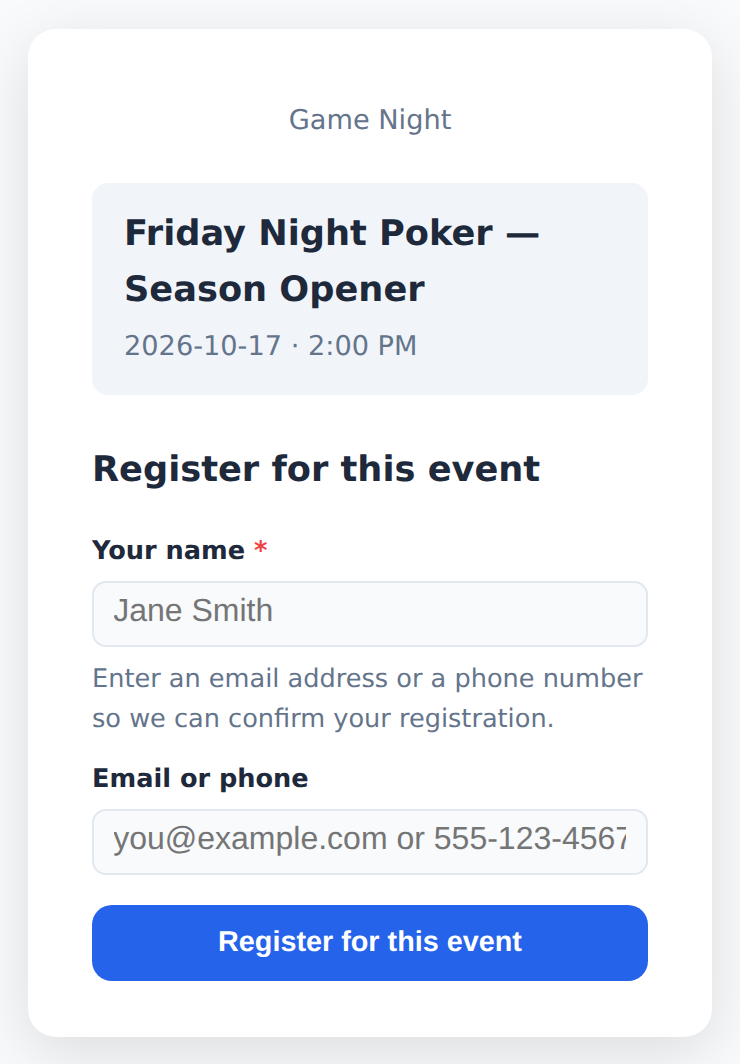
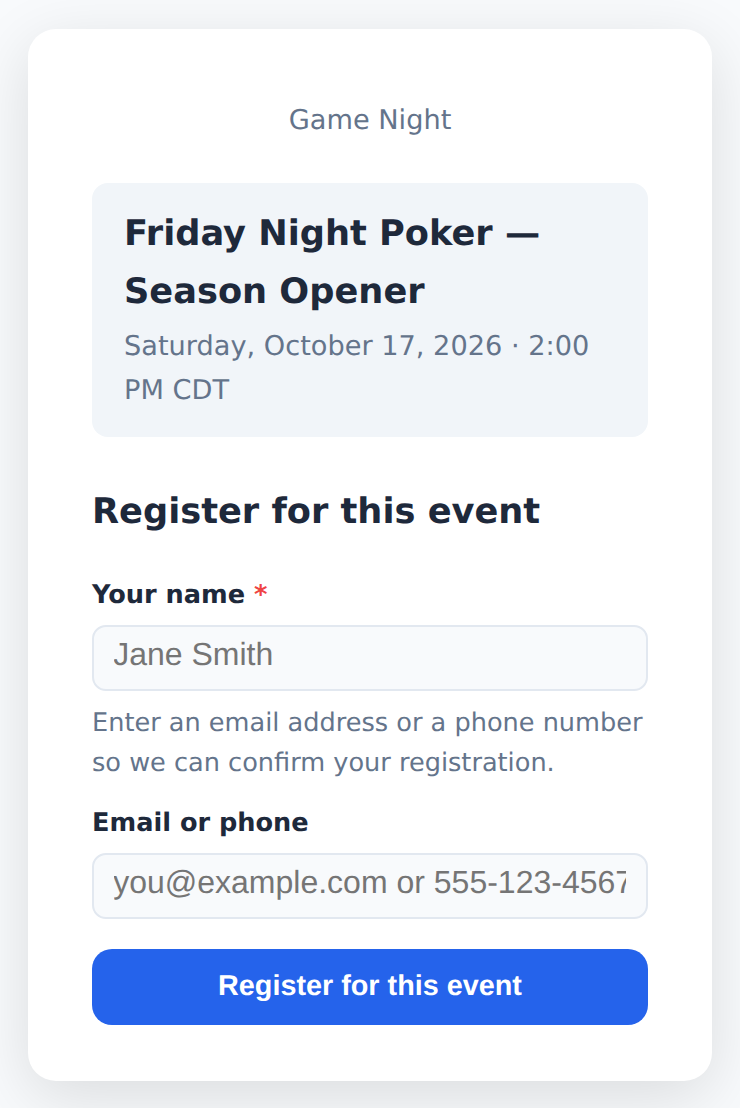
The walk-in page shows the date the way the RSVP page does (v1.4.5)
walkin.php printed the stored date (2026-10-17 · 2:00 PM) at the top of
the form, with no day of the week and no timezone, while rsvp.php says
"Saturday, October 17, 2026 · 2:00 PM CDT" for the same event. It now
uses the same label helper (event_public_time_labels) in the same zone: a
signed-in viewer's own, otherwise the event creator's. The waiting-list
message carried the raw date too and reads the same way now. The Guest
Guide's walk-in picture is retaken with the new format.

diff --git a/www/walkin.php b/www/walkin.php
@@ -17,7 +17,7 @@ $site_name  = get_setting('site_name', 'Game Night');
 // ── Validate event + token ────────────────────────────────────────────────────
 $event = null;
 if ($event_id > 0 && $token !== '') {
-    $stmt = $db->prepare('SELECT id, title, start_date, start_time, end_time, walkin_token, visibility FROM events WHERE id = ?');
+    $stmt = $db->prepare('SELECT id, title, start_date, start_time, end_time, walkin_token, visibility, created_by FROM events WHERE id = ?');
     $stmt->execute([$event_id]);
     $row = $stmt->fetch();
     if ($row && hash_equals((string)$row['walkin_token'], $token)) {
@@ -44,16 +44,17 @@ function walkin_record_attempt(PDO $db): void {
 }
 
 // ── Format display date/time ──────────────────────────────────────────────────
+// The same labels the RSVP page shows ("Saturday, October 17, 2026 · 2:00 PM
+// CDT"), in the same zone: a signed-in viewer's own, otherwise the event
+// creator's, since a walk-in is usually standing at the venue with no account.
+// It used to print the raw stored date (2026-10-17). Entities are decoded
+// because every call site escapes the result.
 function fmt_event_display(array $ev): string {
-    $out = $ev['start_date'];
-    if (!empty($ev['start_time'])) {
-        $t = DateTime::createFromFormat('H:i', $ev['start_time']);
-        if ($t) $out .= '  ·  ' . $t->format('g:i A');
-        if (!empty($ev['end_time'])) {
-            $t2 = DateTime::createFromFormat('H:i', $ev['end_time']);
-            if ($t2) $out .= ' – ' . $t2->format('g:i A');
-        }
-    }
+    $cu  = function_exists('current_user') ? current_user() : null;
+    $uid = !empty($cu['id']) ? (int)$cu['id'] : ((int)($ev['created_by'] ?? 0) ?: null);
+    $lbl = event_public_time_labels((string)$ev['start_date'], $ev['start_time'] ?: null, $ev['end_time'] ?: null, $uid);
+    $out = $lbl['date_lbl'];
+    if ($lbl['time_lbl'] !== '') $out .= '  ·  ' . html_entity_decode($lbl['time_lbl'], ENT_QUOTES | ENT_HTML5, 'UTF-8');
     return $out;
 }
 
@@ -204,8 +205,8 @@ if (!$invalid && $_SERVER['REQUEST_METHOD'] === 'POST') {
                     $uNotify->execute([$uid]);
                     $uRow = $uNotify->fetch();
                     if ($uRow && function_exists('send_notification')) {
-                        $smsBody  = "You're on the waiting list for \"{$event['title']}\" on {$event['start_date']}. The host will approve your registration shortly.";
-                        $htmlBody = '<p>You are on the waiting list for <strong>' . htmlspecialchars($event['title']) . '</strong> on ' . htmlspecialchars($event['start_date']) . '.</p>'
+                        $smsBody  = "You're on the waiting list for \"{$event['title']}\" on " . fmt_event_display($event) . ". The host will approve your registration shortly.";
+                        $htmlBody = '<p>You are on the waiting list for <strong>' . htmlspecialchars($event['title']) . '</strong> on ' . htmlspecialchars(fmt_event_display($event)) . '.</p>'
                                   . '<p style="color:#64748b">The host will approve your registration shortly. You will receive another notification when approved.</p>';
                         send_notification($uRow['username'], $uRow['email'] ?? '', $uRow['phone'] ?? '',
                             $uRow['preferred_contact'] ?? 'email',
@@ -299,8 +300,8 @@ if (!$invalid && $_SERVER['REQUEST_METHOD'] === 'POST') {
                         notify_creator_of_pending($event_id, $final_username);
                         // Notify the new user they're on the waiting list (email only — they just registered).
                         if (function_exists('send_notification')) {
-                            $smsBody  = "You're on the waiting list for \"{$event['title']}\" on {$event['start_date']}. The host will approve your registration shortly.";
-                            $htmlBody = '<p>You are on the waiting list for <strong>' . htmlspecialchars($event['title']) . '</strong> on ' . htmlspecialchars($event['start_date']) . '.</p>'
+                            $smsBody  = "You're on the waiting list for \"{$event['title']}\" on " . fmt_event_display($event) . ". The host will approve your registration shortly.";
+                            $htmlBody = '<p>You are on the waiting list for <strong>' . htmlspecialchars($event['title']) . '</strong> on ' . htmlspecialchars(fmt_event_display($event)) . '.</p>'
                                       . '<p style="color:#64748b">The host will approve your registration shortly. You will receive another notification when approved.</p>';
                             send_notification($final_username, $email, $phone_normalized,
                                 'email', // new user — default to email since they just gave us their email

diff --git a/www/version.php b/www/version.php
@@ -1,5 +1,5 @@
 <?php
-define('APP_VERSION', '1.4.4');
+define('APP_VERSION', '1.4.5');
 
 // Source for the "update available" check (public repo, no auth needed).
 // run_update_check() in db.php fetches this, regexes out APP_VERSION, and

diff --git a/CHANGELOG.md b/CHANGELOG.md
@@ -13,6 +13,21 @@ lands and that heading is renamed when a release is cut.
 
 ---
 
+## [v1.4.5] - 2026-10-05
+
+### Fixed
+
+- **The walk-in page printed the date as stored.** A player who scanned the
+  door code saw `2026-10-17 · 2:00 PM` at the top of the form, with no day
+  of the week and no timezone, while the RSVP page for the same event says
+  "Saturday, October 17, 2026 · 2:00 PM CDT". `walkin.php` now uses the
+  same label helper as the RSVP page (`event_public_time_labels()`), in the
+  same zone: a signed-in viewer's own, otherwise the event creator's. The
+  waiting-list message a walk-in receives when the host reviews sign-ups
+  carried the raw date too and now reads the same way.
+
+---
+
 ## [v1.4.4] - 2026-10-05
 
 ### Fixed
